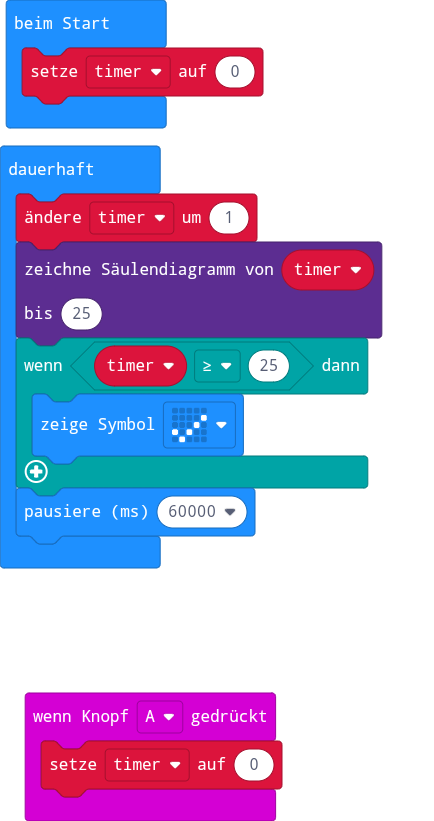
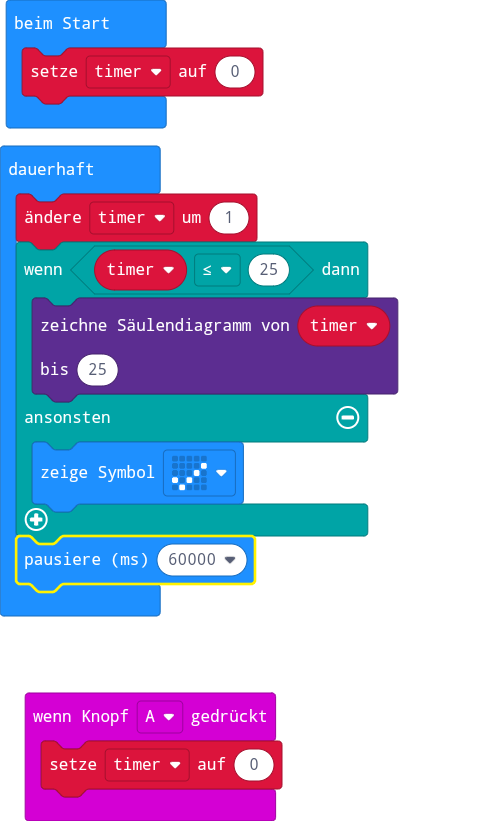
Aktualisiere main.blocks, main.ts

diff --git a/main.ts b/main.ts
@@ -5,11 +5,12 @@ let timer = 0
 timer = 0
 basic.forever(function () {
     timer += 1
-    led.plotBarGraph(
-    timer,
-    25
-    )
-    if (timer >= 25) {
+    if (timer <= 25) {
+        led.plotBarGraph(
+        timer,
+        25
+        )
+    } else {
         basic.showIcon(IconNames.Yes)
     }
     basic.pause(60000)
